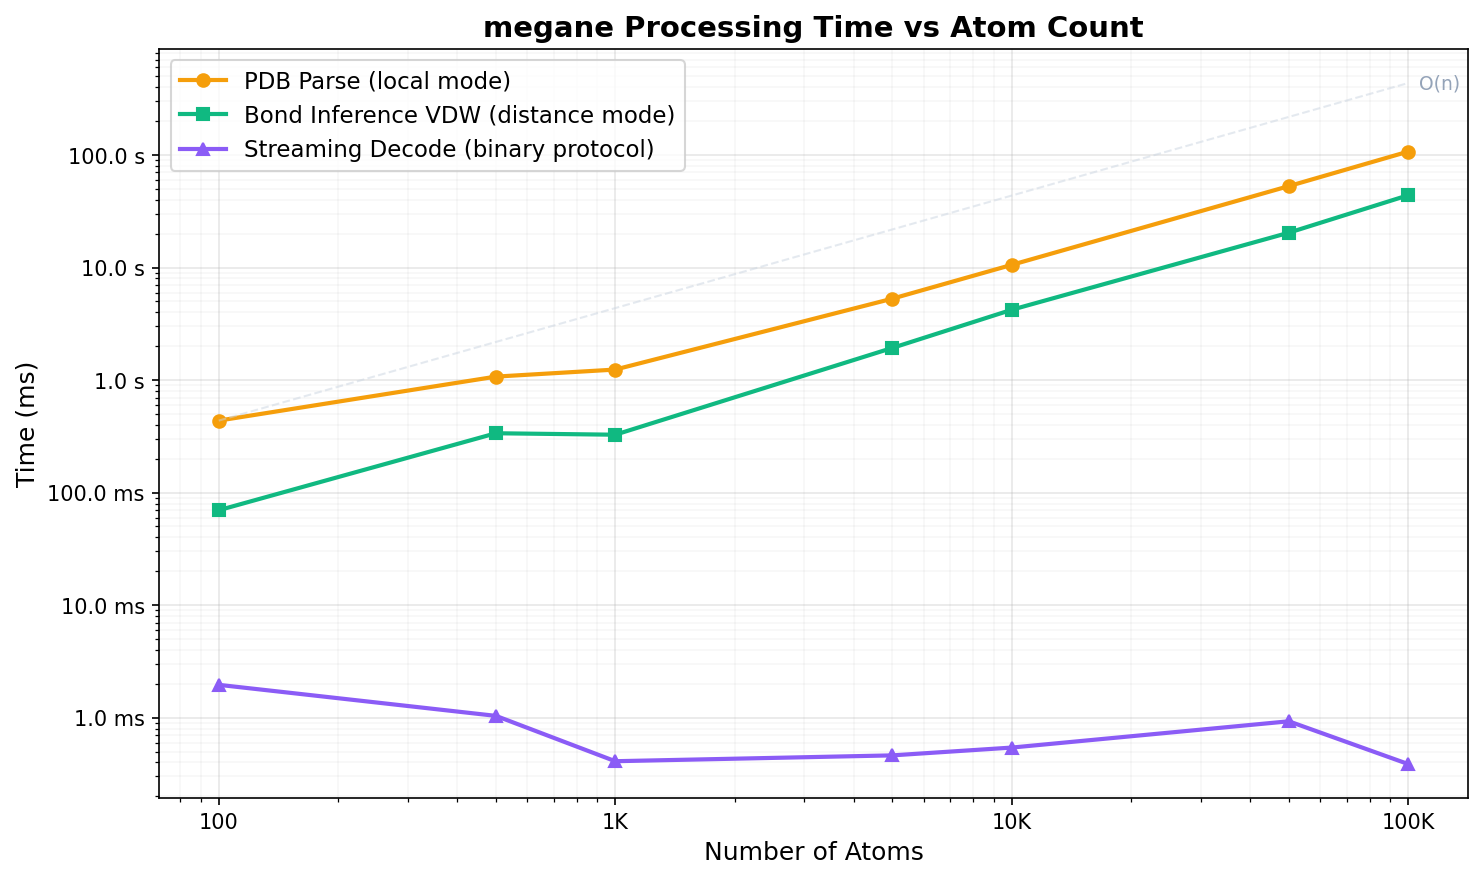
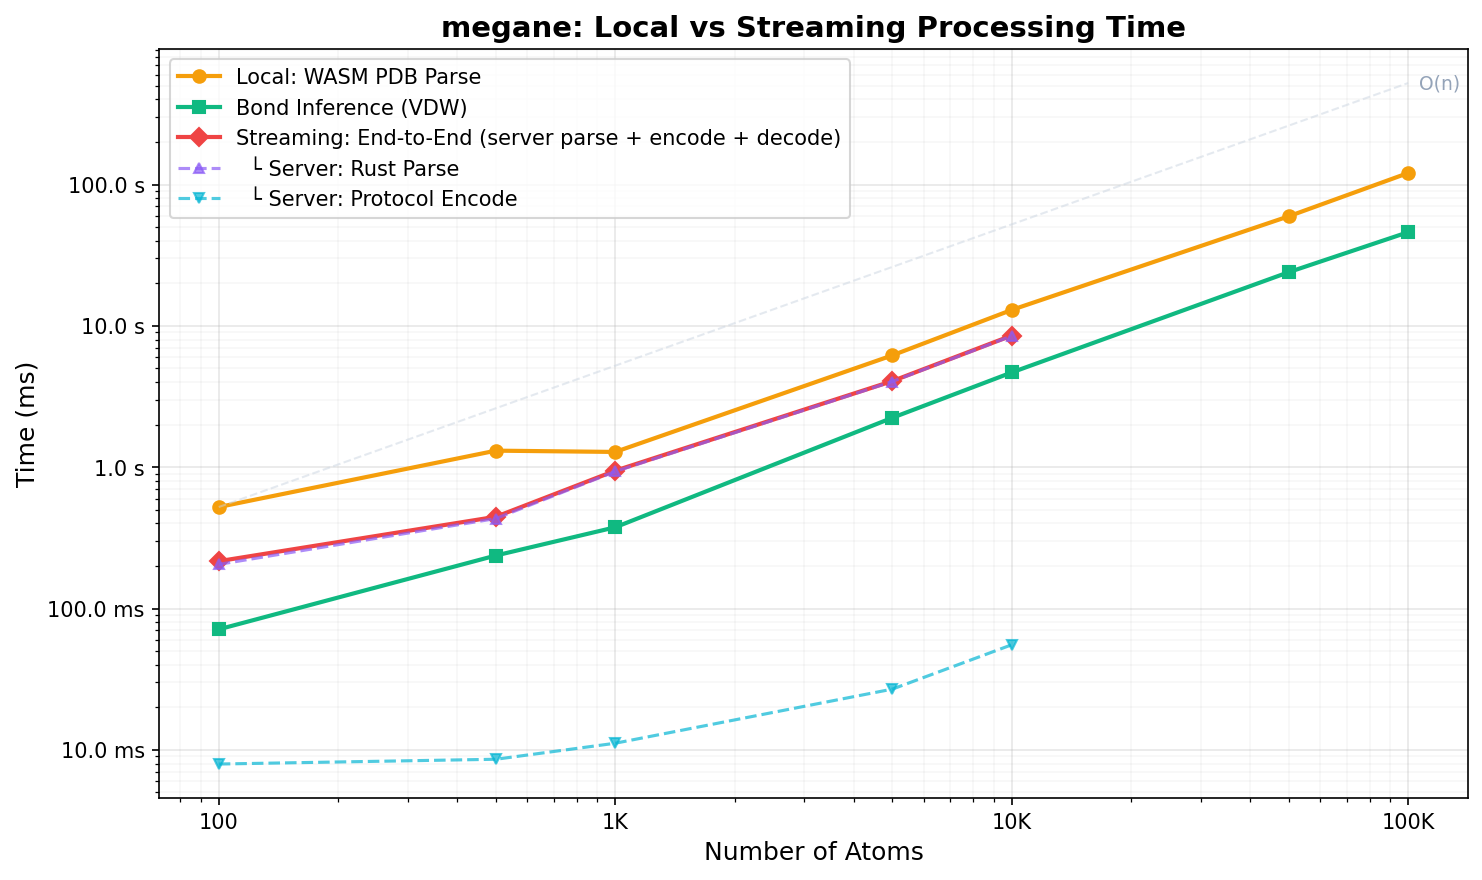
Re-run benchmarks with Rust parser and rename rdkitParse → rustParse
Update bench scripts to reflect RDKit→Rust migration: rename variable
rdkitParse to rustParse across run_server.py, run.mjs, and plot.py.
Fix venv Python detection in run.mjs. Fix plot.py to handle entries
without server data (50K/100K atoms). Results now include server-side
processing time in streamingEndToEnd metric.

https://claude.ai/code/session_01F27PrXRQ9P4Ld2ZYbPzeaL

diff --git a/bench/plot.py b/bench/plot.py
@@ -57,20 +57,22 @@ def main():
               label="Bond Inference (VDW)")
 
     if has_server:
-        streaming_e2e = [d["streamingEndToEnd"] for d in data]
-        rdkit_parse = [d["rdkitParse"] for d in data]
-        protocol_encode = [d["protocolEncode"] for d in data]
+        server_data = [d for d in data if d.get("streamingEndToEnd") is not None]
+        server_atoms = [d["nAtoms"] for d in server_data]
+        streaming_e2e = [d["streamingEndToEnd"] for d in server_data]
+        rust_parse = [d["rustParse"] for d in server_data]
+        protocol_encode = [d["protocolEncode"] for d in server_data]
 
         # Streaming end-to-end: server parse + encode + client decode
-        ax.loglog(atoms, streaming_e2e, "D-", color="#ef4444", linewidth=2, markersize=6,
+        ax.loglog(server_atoms, streaming_e2e, "D-", color="#ef4444", linewidth=2, markersize=6,
                   label="Streaming: End-to-End (server parse + encode + decode)")
 
-        # Breakdown: RDKit parse only
-        ax.loglog(atoms, rdkit_parse, "^--", color="#8b5cf6", linewidth=1.5, markersize=5,
-                  alpha=0.7, label="  \u2514 Server: RDKit Parse")
+        # Breakdown: Rust parse only
+        ax.loglog(server_atoms, rust_parse, "^--", color="#8b5cf6", linewidth=1.5, markersize=5,
+                  alpha=0.7, label="  \u2514 Server: Rust Parse")
 
         # Breakdown: Protocol encode only
-        ax.loglog(atoms, protocol_encode, "v--", color="#06b6d4", linewidth=1.5, markersize=5,
+        ax.loglog(server_atoms, protocol_encode, "v--", color="#06b6d4", linewidth=1.5, markersize=5,
                   alpha=0.7, label="  \u2514 Server: Protocol Encode")
 
     ax.set_xlabel("Number of Atoms", fontsize=12)

diff --git a/bench/run_server.py b/bench/run_server.py
@@ -80,7 +80,7 @@ def benchmark(fn, runs, warmup):
 
 
 def main():
-    print("=== megane Server-Side Benchmark (RDKit + Protocol) ===\n")
+    print("=== megane Server-Side Benchmark (Rust + Protocol) ===\n")
     print(f"Atom counts: {', '.join(f'{n:,}' for n in ATOM_COUNTS)}\n")
 
     results = []
@@ -95,7 +95,7 @@ def main():
 
         entry = {
             "nAtoms": n_atoms,
-            "rdkitParse": None,
+            "rustParse": None,
             "protocolEncode": None,
             "serverTotal": None,
         }
@@ -114,7 +114,7 @@ def main():
                 nonlocal structure
                 structure = load_pdb(tmp_path)
 
-            entry["rdkitParse"] = benchmark(do_parse, runs, warmup)
+            entry["rustParse"] = benchmark(do_parse, runs, warmup)
 
             # 2. Binary Protocol Encode (very fast, use same structure)
             def do_encode():
@@ -123,7 +123,7 @@ def main():
             entry["protocolEncode"] = benchmark(do_encode, runs, warmup)
 
             # 3. Server total = parse + encode (summed, avoid extra slow runs)
-            entry["serverTotal"] = entry["rdkitParse"] + entry["protocolEncode"]
+            entry["serverTotal"] = entry["rustParse"] + entry["protocolEncode"]
 
         finally:
             os.unlink(tmp_path)
@@ -138,7 +138,7 @@ def main():
             return f"{ms / 1000:.2f} s"
 
         print(
-            f"parse={fmt(entry['rdkitParse'])}  "
+            f"parse={fmt(entry['rustParse'])}  "
             f"encode={fmt(entry['protocolEncode'])}  "
             f"total={fmt(entry['serverTotal'])}"
         )
